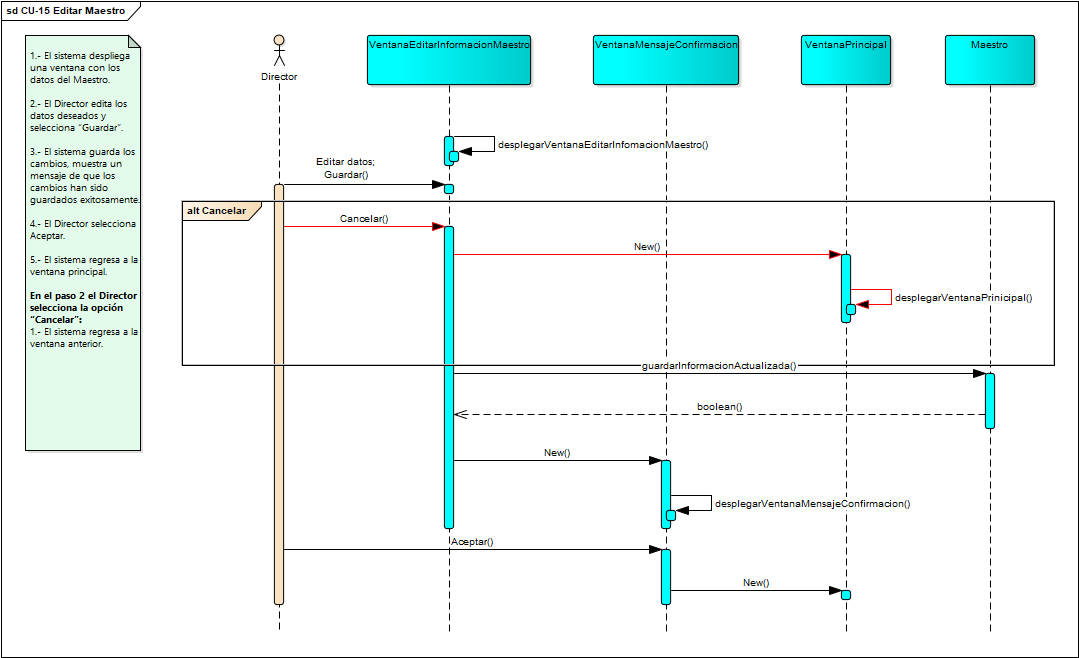
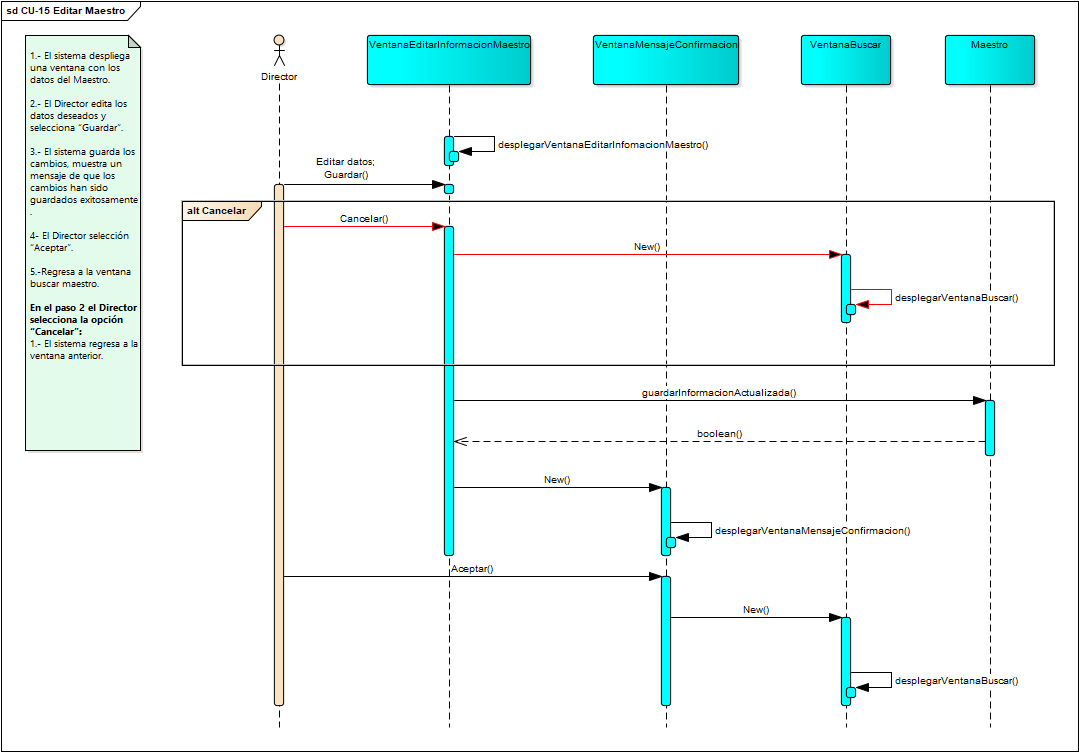
Ajustes en diagramas y en descripciones
Se hicieron cambios en las descripciones y en algunos diagramas con respcto a lo que se implementó, además se modifico un pequeño problema identificado por el equipo en el CU registrar maestro

diff --git a/AredEspacio/src/controlador/VentanaRegistrarMaestroController.java b/AredEspacio/src/controlador/VentanaRegistrarMaestroController.java
@@ -70,7 +70,7 @@ public class VentanaRegistrarMaestroController implements Initializable {
     @FXML
     private PasswordField campoContraseña;
 
-    String rutaImagen = null;
+    String rutaImagen = "";
     Maestro maestro = new Maestro();
     @FXML
     private AnchorPane panelPrincipal;
@@ -174,8 +174,8 @@ public class VentanaRegistrarMaestroController implements Initializable {
         if (archivoSeleccionado != null) {
             String rutaOrigen = archivoSeleccionado.getAbsolutePath();
             String nombreArchivo = archivoSeleccionado.getName();
-            //String rutaNueva = "C:\\Users\\irdev\\OneDrive\\Documentos\\GitHub\\Repositorio-Desarrollo-de-Software\\AredEspacio\\src\\imagenesMaestros";
-            String rutaNueva = "C:\\Users\\iro19\\Documents\\GitHub\\Repositorio-Desarrollo-de-Software\\AredEspacio\\src\\imagenesAlumnos";
+            String rutaNueva = "C:\\Users\\irdev\\OneDrive\\Documentos\\GitHub\\Repositorio-Desarrollo-de-Software\\AredEspacio\\src\\imagenesMaestros";
+            //String rutaNueva = "C:\\Users\\iro19\\Documents\\GitHub\\Repositorio-Desarrollo-de-Software\\AredEspacio\\src\\imagenesAlumnos";
             StringBuilder comando = new StringBuilder();
             comando.append("copy ").append('"' + rutaOrigen + '"').append(" ").append('"' + rutaNueva + '"');
             ProcessBuilder builder = new ProcessBuilder("cmd.exe", "/c", comando.toString());

diff --git a/AredEspacio/src/controlador/VentanaRegistrarAlumnoController.java b/AredEspacio/src/controlador/VentanaRegistrarAlumnoController.java
@@ -129,7 +129,7 @@ public class VentanaRegistrarAlumnoController implements Initializable {
             nuevoAlumno.setRutaFoto(nombreFoto);
         }
 
-        if (nuevoAlumno.getRutaFoto() != null) {
+        if (nuevoAlumno.getRutaFoto() != null ) {
             Image foto = new Image("imagenesAlumnos/" + nuevoAlumno.getRutaFoto(), 140, 140, false, true, true);
             fotoSeleccionada.setImage(foto);
         }
